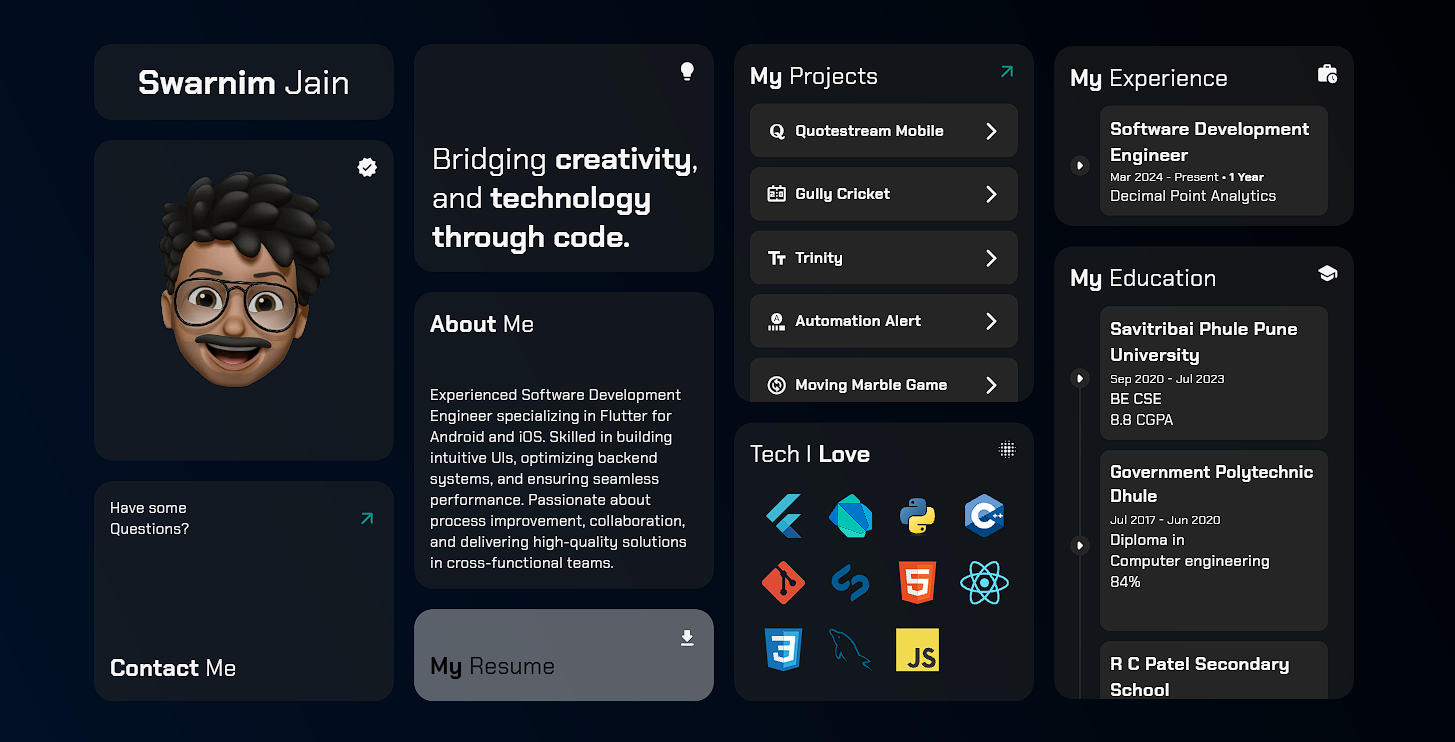
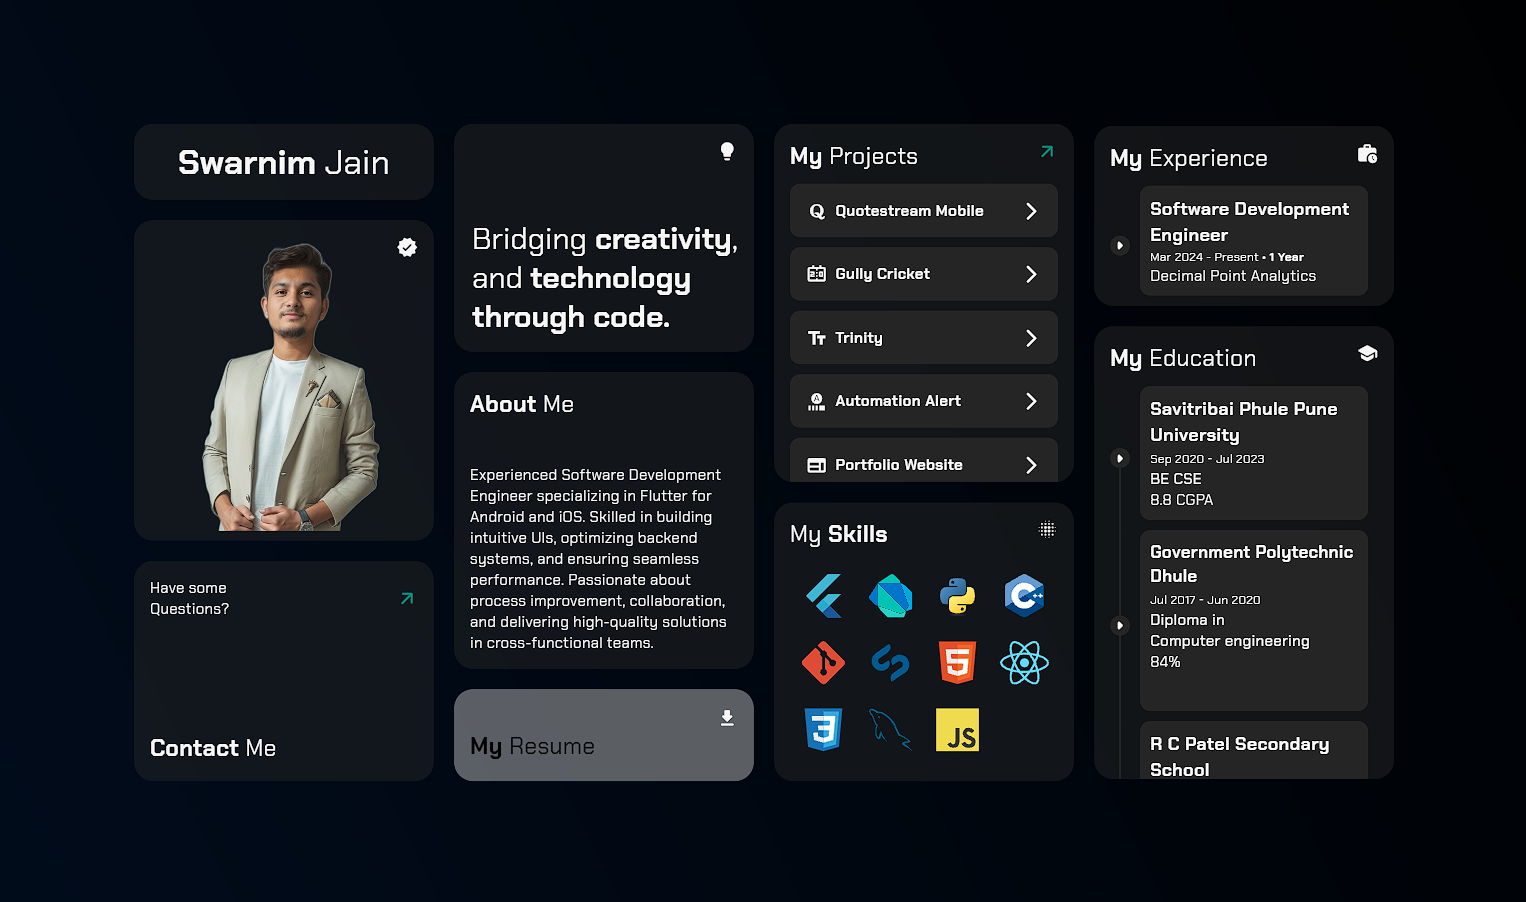
added blood connector project and bug fixes

diff --git a/lib/data/project.dart b/lib/data/project.dart
@@ -57,7 +57,7 @@ List<Project> projects = [
     description:
         "Automation Script Making is a Python-based project that automates data extraction, processing, and alerting by gathering information from various websites and notifying users of relevant matches.",
     icon: Icons.autofps_select_outlined,
-    flutterSvg: "assets/svg/python.svg",
+    flutterSvg: "assets/svg/git.svg",
     dartSvg: "assets/svg/python.svg",
     keyFeatures:
         "• Optimized Data Processing.\n• Web Data Scraping.\n• Automated Alerts.\n• Performance Optimization.",
@@ -111,6 +111,22 @@ List<Project> projects = [
         "• Built with efficient Flutter code for smooth transitions and animations.\n• State Management with GetX.\n• User-Friendly UI.\n• Interact with stories just like Instagram.",
     githubLink: "https://github.com/swarnim992/instaStoryApp",
     demoVideoLink: "https://instastorylite.netlify.app/",
+    screenshot1: "",
+    screenshot2: "",
+  ),
+
+  Project(
+    image: "assets/project/blood.png",
+    title: "Blood Connector",
+    description:
+        "Blood Connector is a native Android application designed to quickly connect users and hospitals with blood donors in emergencies, ensuring fast and reliable access to life-saving resources.",
+    icon: Icons.bloodtype_outlined,
+    flutterSvg: "assets/svg/java.svg",
+    dartSvg: "assets/svg/android.svg",
+    keyFeatures:
+        "• Secure authentication and profile management via Firebase..\n• Quickly find and request blood from registered donors..\n• Real-time authentication and data synchronization.",
+    githubLink: "https://github.com/swarnim992/Blood_Connector",
+    demoVideoLink: "",
     screenshot1: "",
     screenshot2: "",
   ),

diff --git a/lib/screens/main screens/tablet.dart b/lib/screens/main screens/tablet.dart
@@ -531,6 +531,26 @@ class TabletBody extends StatelessWidget {
                                       ),
                                     ),
                                   ),
+                                  SizedBox(
+                                    //color: tablet_SVGContainer.color,
+                                    width:
+                                        deviceWidth * tablet_SVGContainer.width,
+                                    //height: deviceWidth * tablet_SVGContainer.height,
+                                    child: Center(
+                                      child: Custom_tooltip(
+                                        message: skills[11].name,
+                                        child: SvgPicture.asset(
+                                          skills[11].svgPath,
+
+                                          // color: textStyles.B.color,
+                                          width:
+                                              deviceWidth *
+                                              tablet_SVGContainer.width,
+                                          //height: deviceWidth * tablet_SVGContainer.height,
+                                        ),
+                                      ),
+                                    ),
+                                  ),
                                 ],
                               ),
                             ],

diff --git a/lib/screens/main screens/mobile.dart b/lib/screens/main screens/mobile.dart
@@ -468,6 +468,24 @@ class _MobileBodyState extends State<MobileBody> {
                                   ),
                                 ),
                               ),
+                              SizedBox(
+                                width: deviceWidth * mobile_SVGContainer.width,
+                                //height: deviceWidth * mobile_SVGContainer.height,
+                                child: Center(
+                                  child: Custom_tooltip(
+                                    message: skills[11].name,
+                                    child: SvgPicture.asset(
+                                      skills[11].svgPath,
+
+                                      // color: textStyles.B.color,
+                                      width:
+                                          deviceWidth *
+                                          mobile_SVGContainer.width,
+                                      //height: deviceWidth * mobile_SVGContainer.height,
+                                    ),
+                                  ),
+                                ),
+                              ),
                             ],
                           ),
                         ],

diff --git a/lib/data/skills.dart b/lib/data/skills.dart
@@ -6,6 +6,7 @@ final List<Skill> skills = [
   Skill(svgPath: 'assets/svg/python.svg', name: 'Python'),
   Skill(svgPath: 'assets/svg/cpp.svg', name: 'C++'),
   Skill(svgPath: 'assets/svg/git.svg', name: 'Git'),
+  Skill(svgPath: 'assets/svg/android.svg', name: 'Android'),
   Skill(svgPath: 'assets/svg/silverstripe.svg', name: 'Silverstripe'),
   Skill(svgPath: 'assets/svg/html.svg', name: 'HTML'),
   Skill(svgPath: 'assets/svg/react.svg', name: 'React'),
